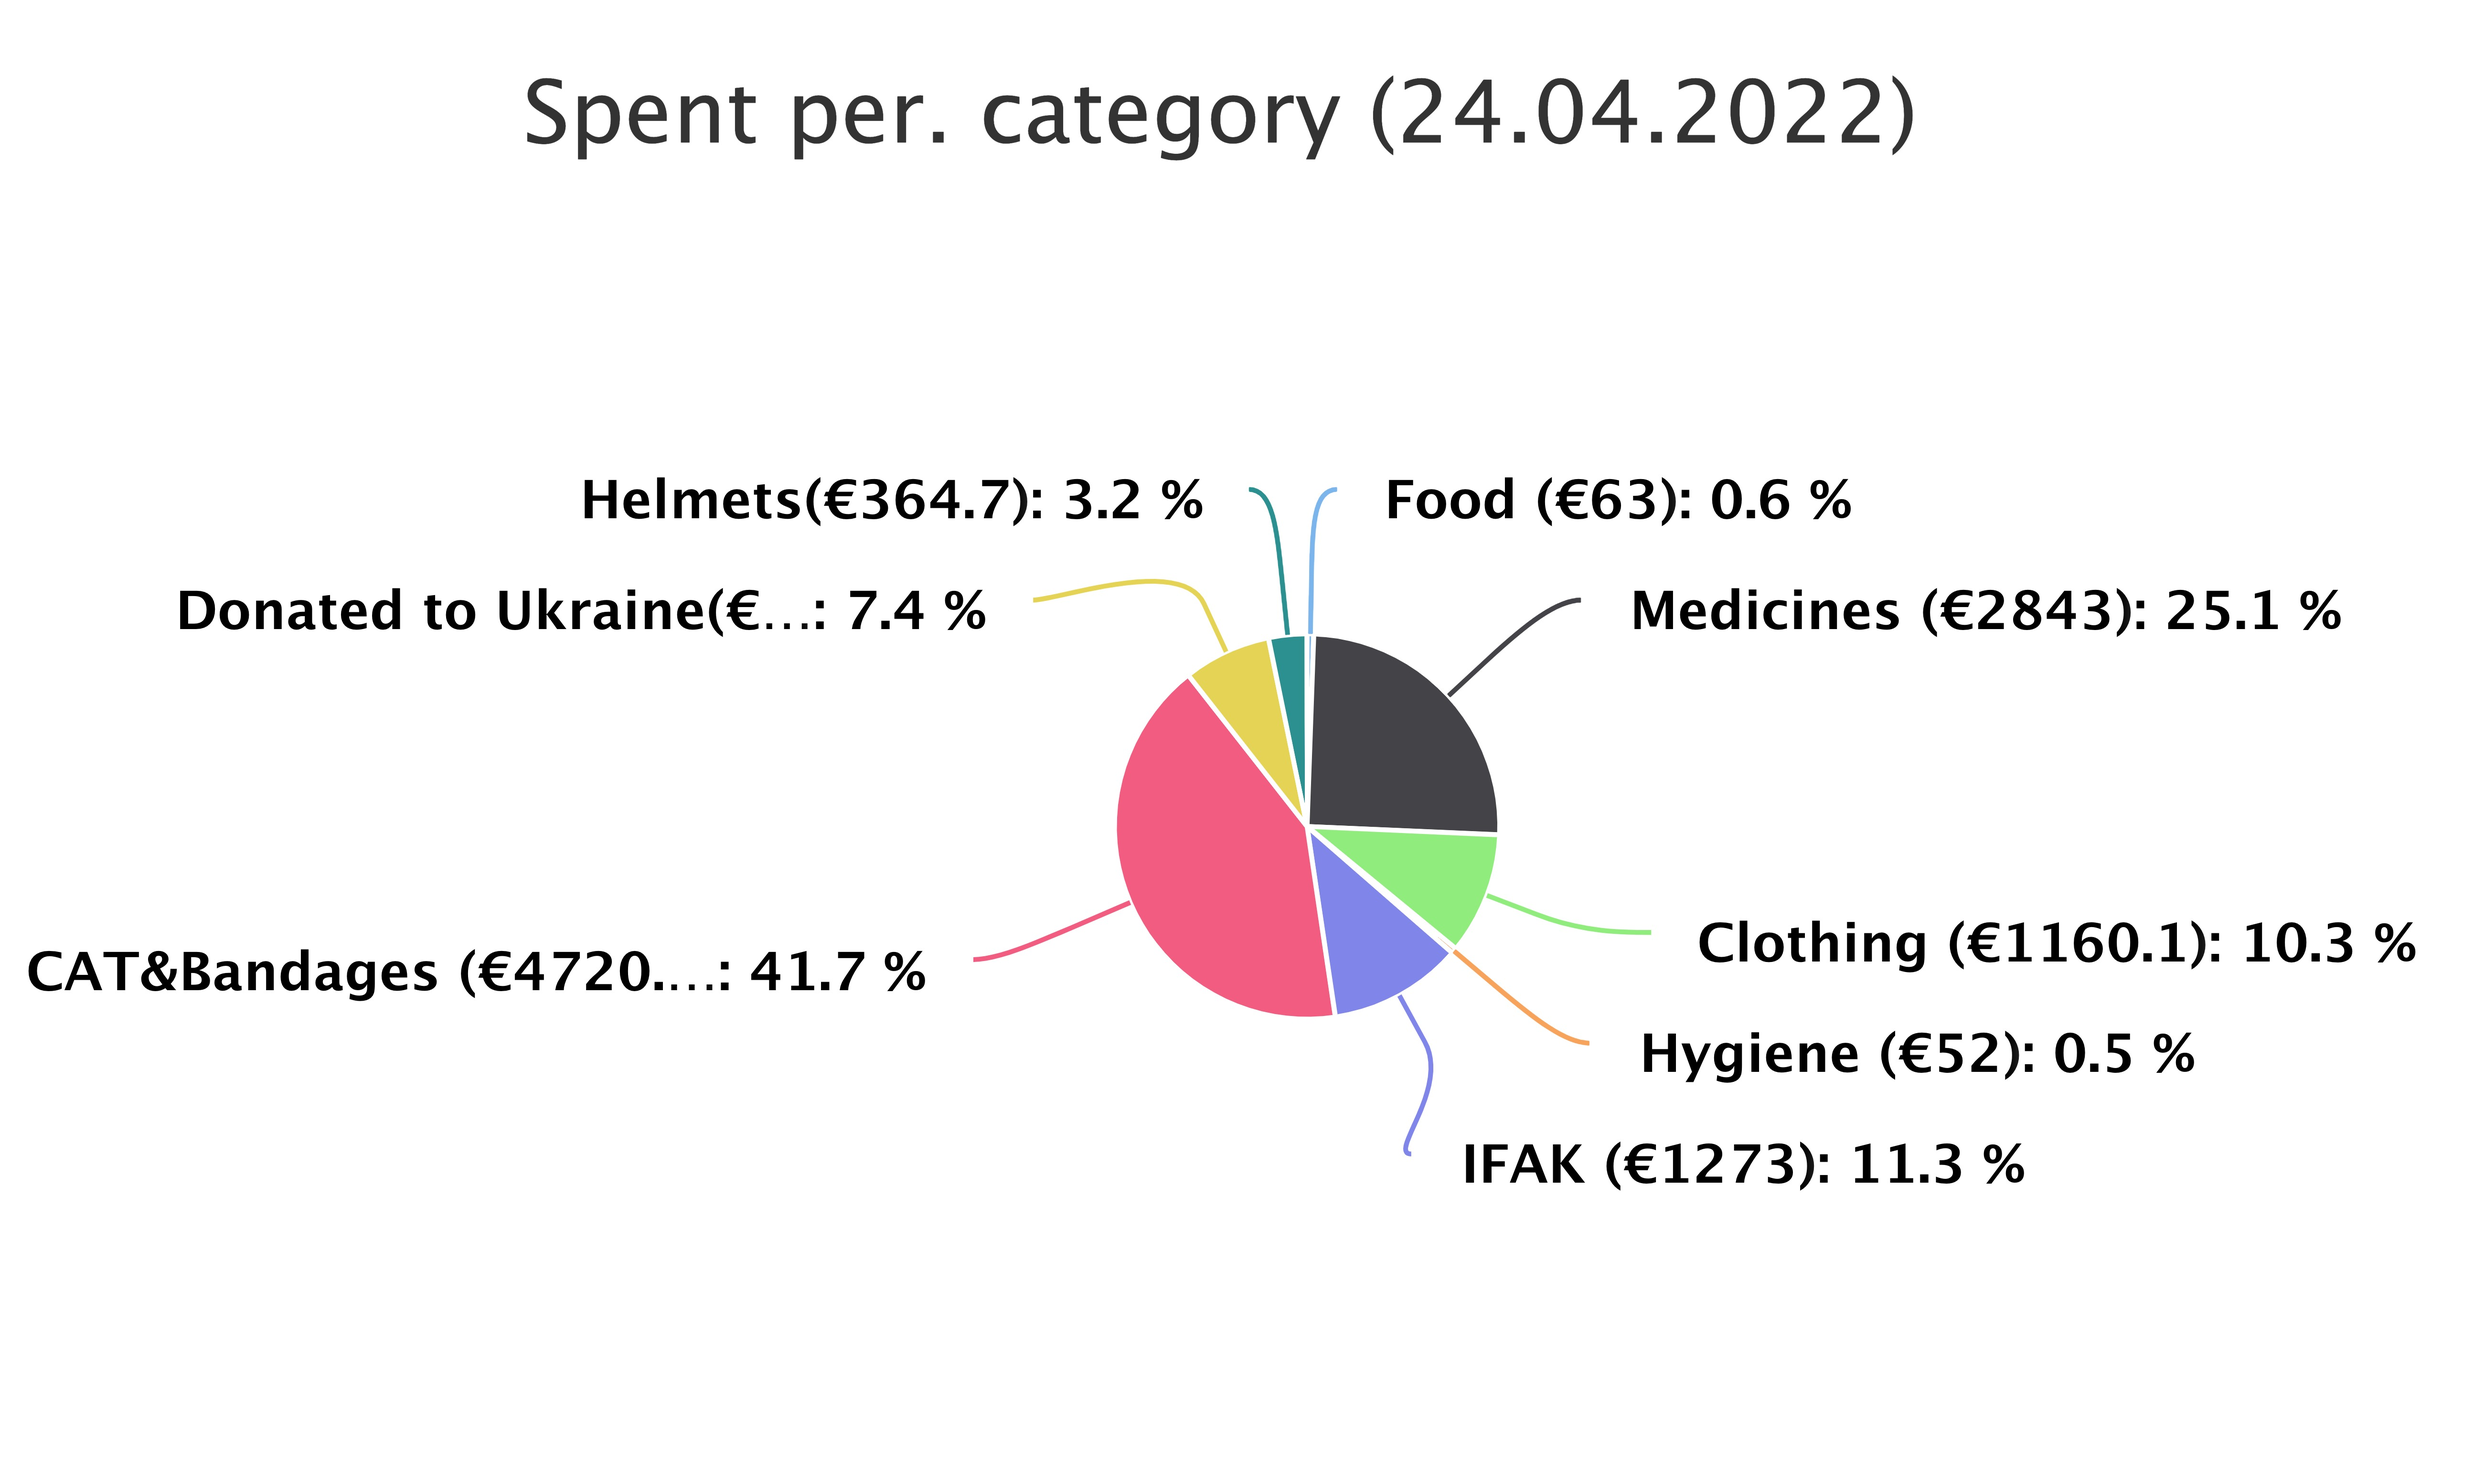
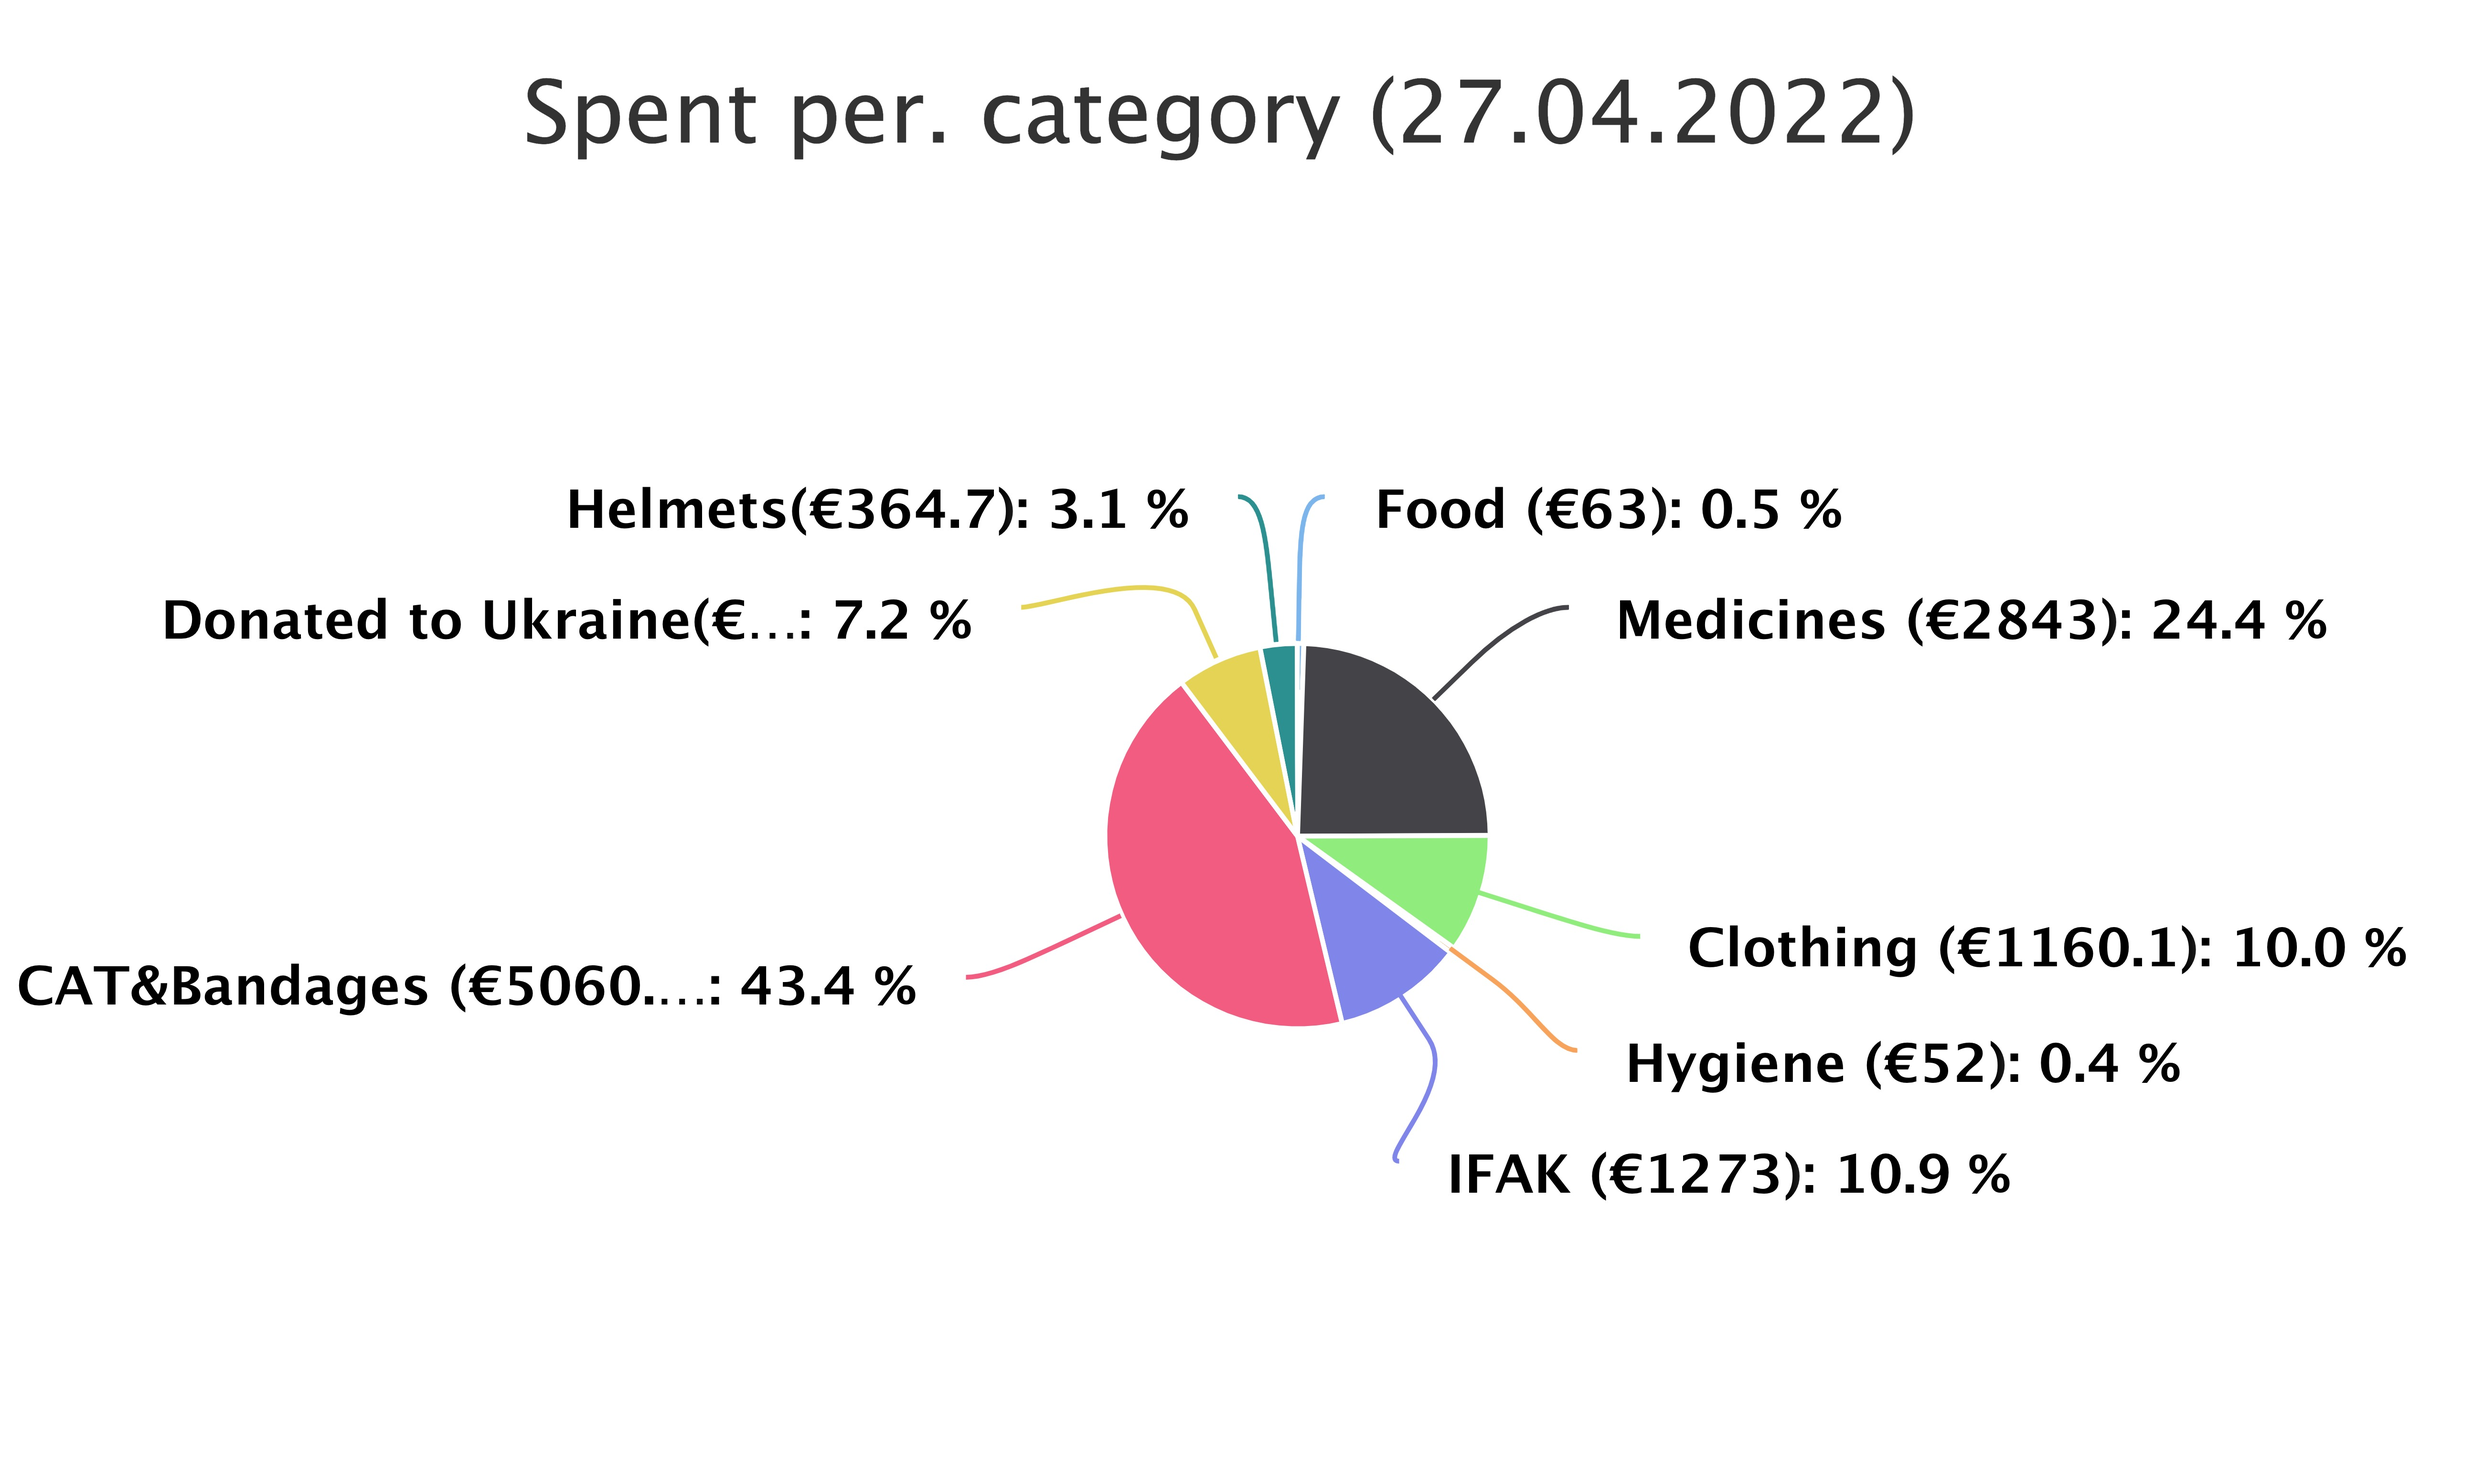
add

diff --git a/index.html b/index.html
@@ -185,11 +185,11 @@
             <div class="row">
                 <div class="col-lg-6">
                     <p>Collected</p>
-                    <h1>&euro; 10 693</h1>
+                    <h1>&euro; 10 873</h1>
                 </div>
                 <div class="col-lg-6">
                     <p>Spent</p>
-                    <h1>&euro; 11 014</h1>
+                    <h1>&euro; 11 354</h1>
                 </div>
             </div>
         </div> <!-- end of container -->
@@ -198,7 +198,7 @@
             <div class="row">
                 <div class="col-lg-12">
                     <div class="image-container">
-                        <img class="img-fluid" src="images/spent.webp" alt="alternative">
+                        <img class="img-fluid" src="images/spent.jpg" alt="alternative">
                     </div> <!-- end of image-container -->
                 </div>
             </div> <!-- end of row -->
